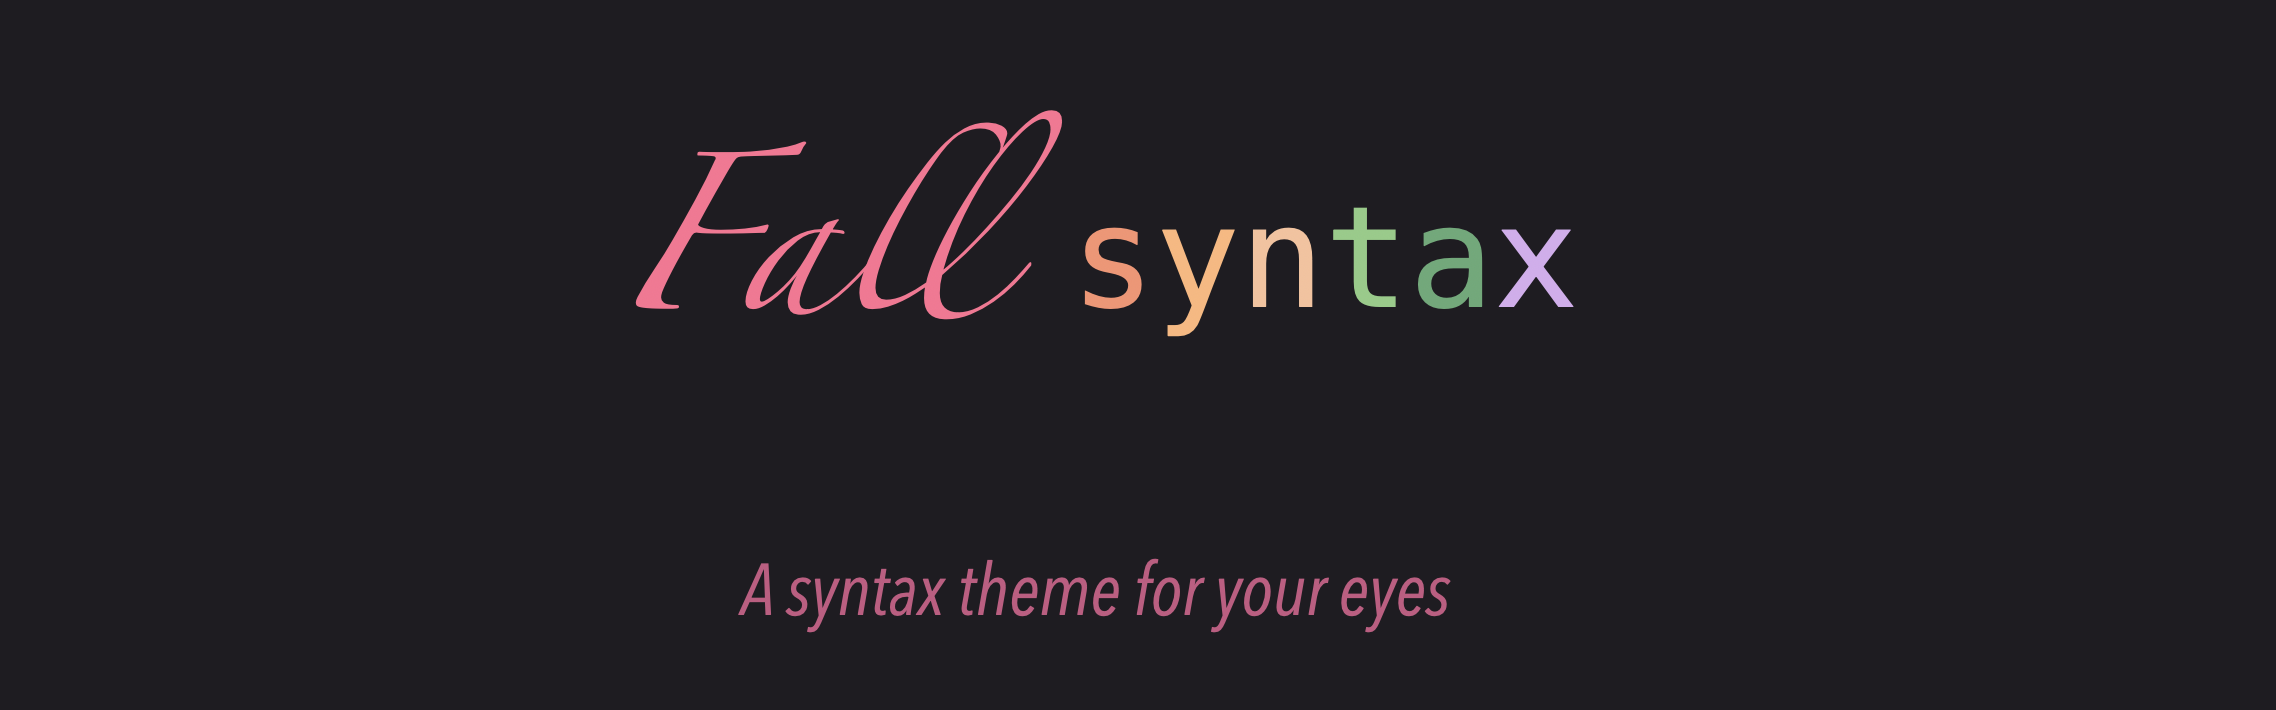
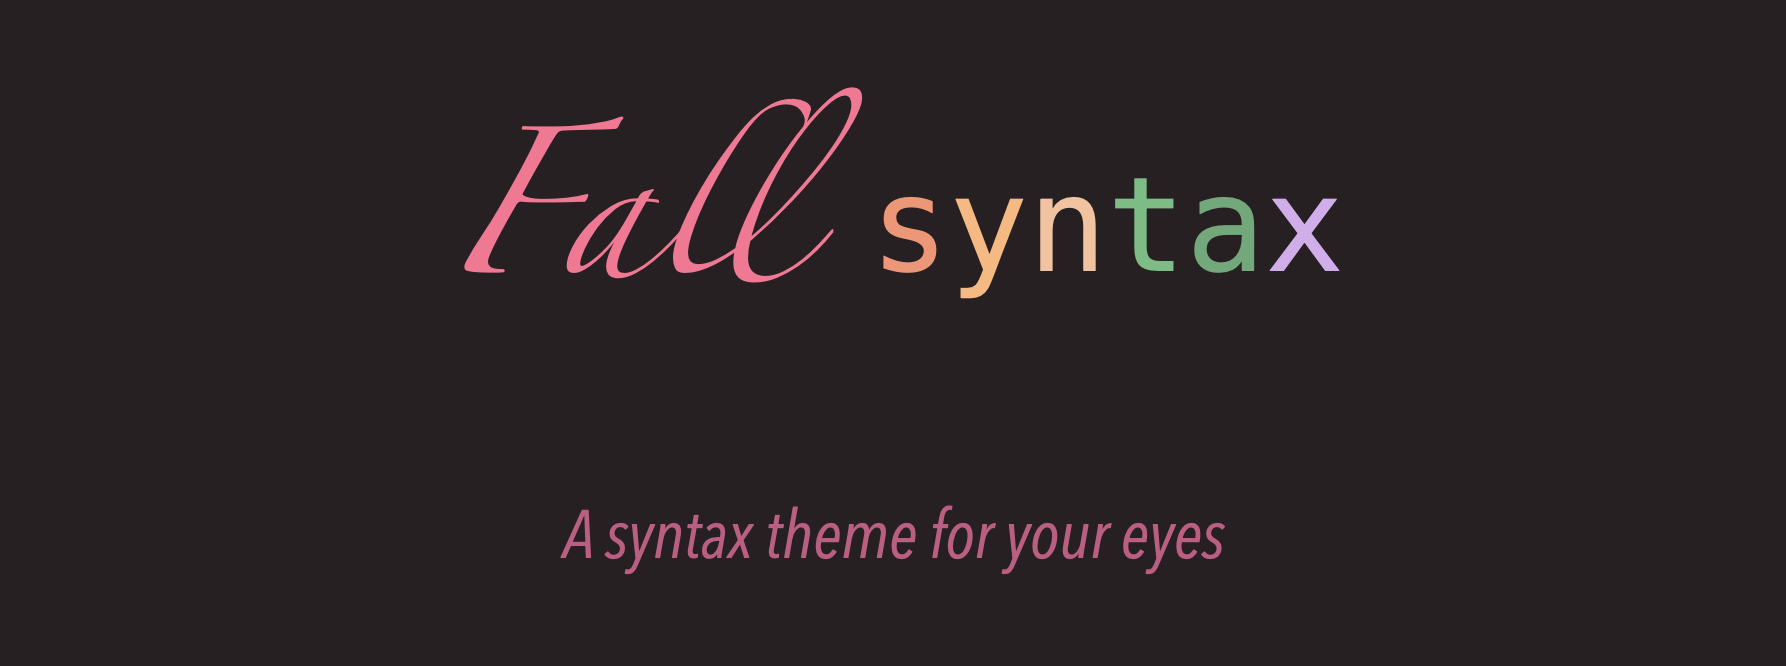
Finalize (#27)
* Updated banner

* Add more syntax highlighting support

* Boi coffeescript is weird

* Added coffee test

* screenshots

* :sparkles: Support for Lark

* updated screenshot

Changed region(s): [[0.2464, 0.1201, 0.7699, 0.4805], [0.308, 0.7508, 0.7083, 0.8709]]

diff --git a/styles/syntax/_base.less b/styles/syntax/_base.less
@@ -28,11 +28,12 @@
 .syntax--class,
 .syntax--function {
     color: @important-color;
-    &.syntax--name {
+    &.syntax--name, &.syntax--support {
         color: @function-color;
     }
 }
 .syntax--parameter,
+.syntax--instance,
 .syntax--self {
     color: @arg-color;
 }
@@ -58,7 +59,7 @@
 }
 .syntax--entity {
     color: @keyword-color;
-    &.syntax--name.syntax--type {color: @constant-color}  // Class name
+    &.syntax--name.syntax--type, &.syntax--inherited-class {color: @constant-color}  // Class name
 }
 
 // Misc

diff --git a/index.less b/index.less
@@ -6,3 +6,4 @@
 @import "styles/syntax/less.less";
 @import "styles/syntax/json.less";
 @import "styles/syntax/cpp.less";
+@import "styles/syntax/lark.less";

diff --git a/styles/syntax/lark.less b/styles/syntax/lark.less
@@ -1,0 +1,5 @@
+.syntax--lark {
+    &.syntax--rule.syntax--name {
+        color: @important-color;
+    }
+}

diff --git a/README.md b/README.md
@@ -16,11 +16,6 @@
 
 ![A screenshot of the syntax theme](./screenshot.png)
 
-*Font used in screenshot: [Fira Code](https://github.com/tonsky/FiraCode)*
-
-
-*Also used* [*MagicPython*](https://github.com/MagicStack/MagicPython) *for enhanced python syntax highlighting*
-
 ---
 
 
@@ -78,6 +73,15 @@ Q: **How can I contribute?**
 
 A: Either ~~complain about the colors~~ professionally critique the theme in the issues or send a pull request for some different colors/arrangements. Or you can **help me port this theme to other editors** I'll merge it if I like it!
 
+## More images
+
+<details>
+
+<summary>Click to expand</summary>
+
+<img src="./screenshot1.png"></img>
+<img src="./screenshot2.png"></img>
+</details>
 
 ## Credits
 
